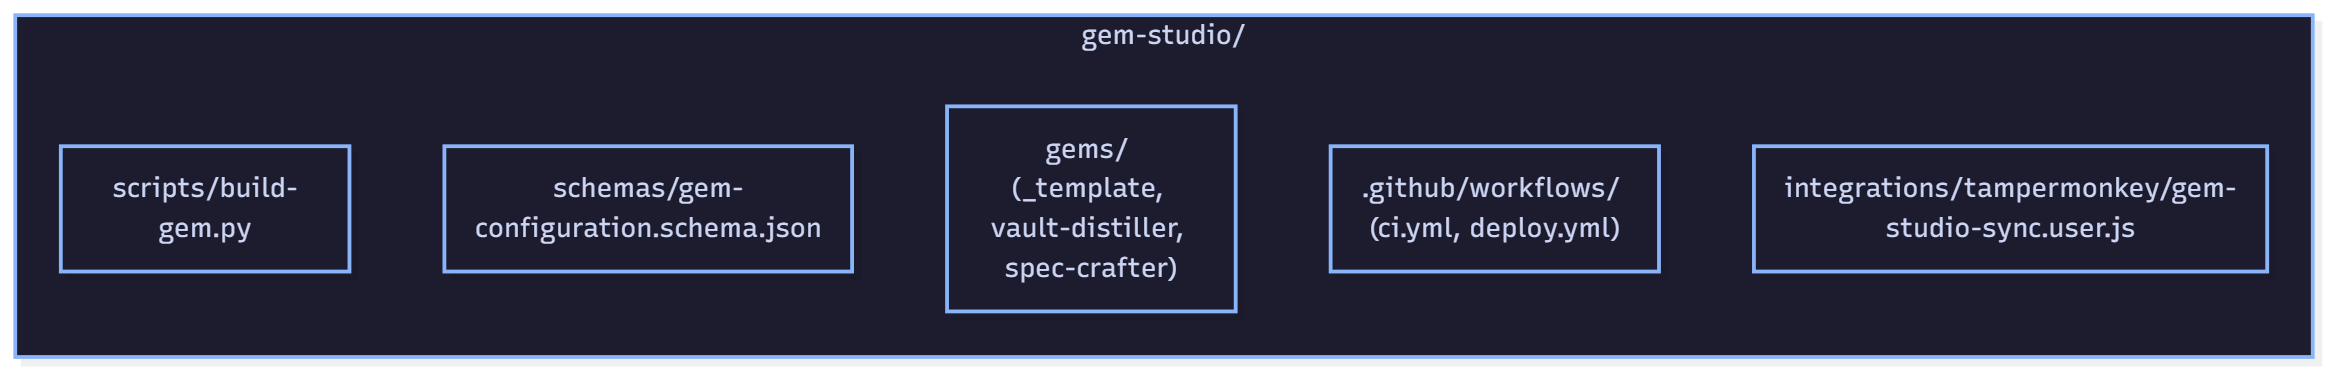
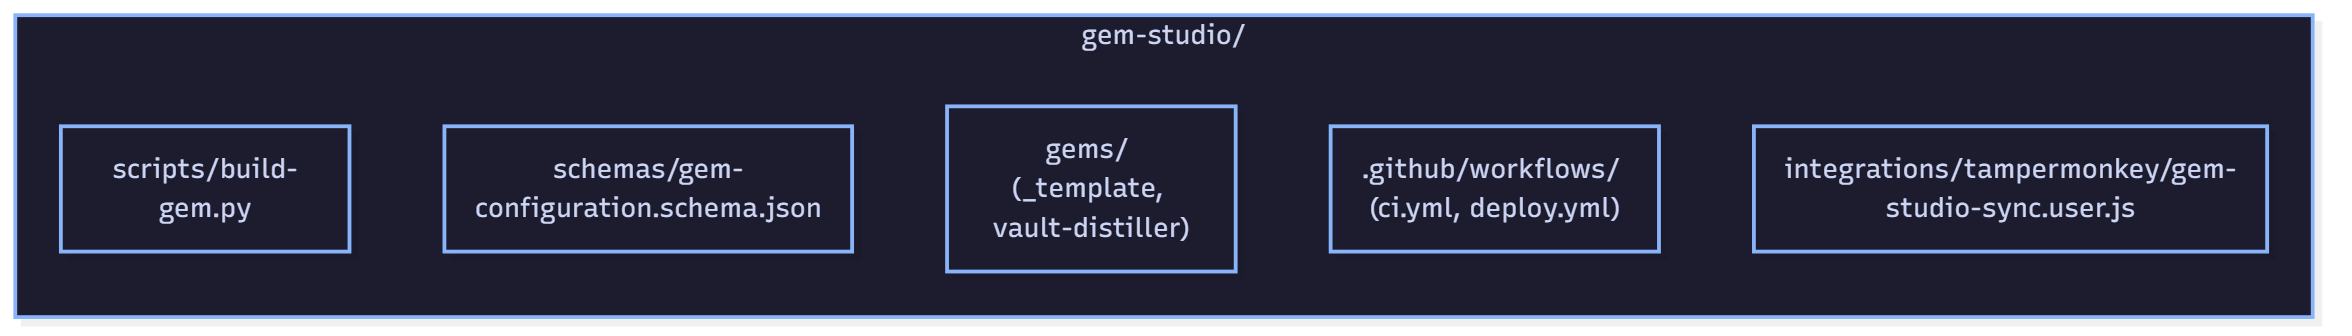
fix(diagrams,docs): sanitize public architecture tree and remove private hostnames
- Remove spec-crafter from fig2 Mermaid diagram definition and recompile fig_02 PNG.
- Neutralize private hostnames in delivery 08 roadmap in favor of cross-platform macOS and Windows/WSL2.
- Ensure strict diagram-to-prose consistency across all public assets.

diff --git a/gemstudio-01/gemstudio-01.md b/gemstudio-01/gemstudio-01.md
@@ -130,7 +130,7 @@ Para desglosar en profundidad cada una de las capas de diseño de software, infr
 - **Entrega 5:** *La Fábrica de Cómputo — CI/CD soberano: Runners efímeros en Docker y despliegue estático a coste cero*.
 - **Entrega 6:** *La Última Milla — Bypasseando la SPA: Inyección reactiva y sincronización client-side con Tampermonkey*.
 - **Entrega 7:** *Caso de Estudio I: La Topología del Diálogo — VaultDistiller: De sesiones caóticas de terminal a grafos atómicos en Obsidian*.
-- **Entrega 8:** *Caso de Estudio II: La Odisea de la Implementación — De NEWTON-SPARK a TITAN-SHIFT: Crónica de un despliegue multiplataforma real*.
+- **Entrega 8:** *Caso de Estudio II: La Odisea de la Implementación — De macOS a Windows/WSL2: Crónica de un despliegue multiplataforma real*.
 - **Entrega 9:** *El Futuro Agéntico — Más allá de las Gems: Prompt-as-Code como cimiento para arquitecturas agénticas abiertas*.
 
 ---
@@ -140,3 +140,4 @@ El código fuente completo de la plataforma, los esquemas formales en JSON, las 
 > Repositorio oficial: **[rmasabela/gem-studio](https://github.com/rmasabela/gem-studio)**
 
 En la siguiente entrega, realizaremos la autopsia técnica a las plataformas web de asistentes personalizados de OpenAI y Google, examinando los límites arquitectónicos que precipitaron su estancamiento y analizando por qué el modelo basado en interfaces gráficas no puede escalar hacia sistemas agénticos de nivel industrial.
+
